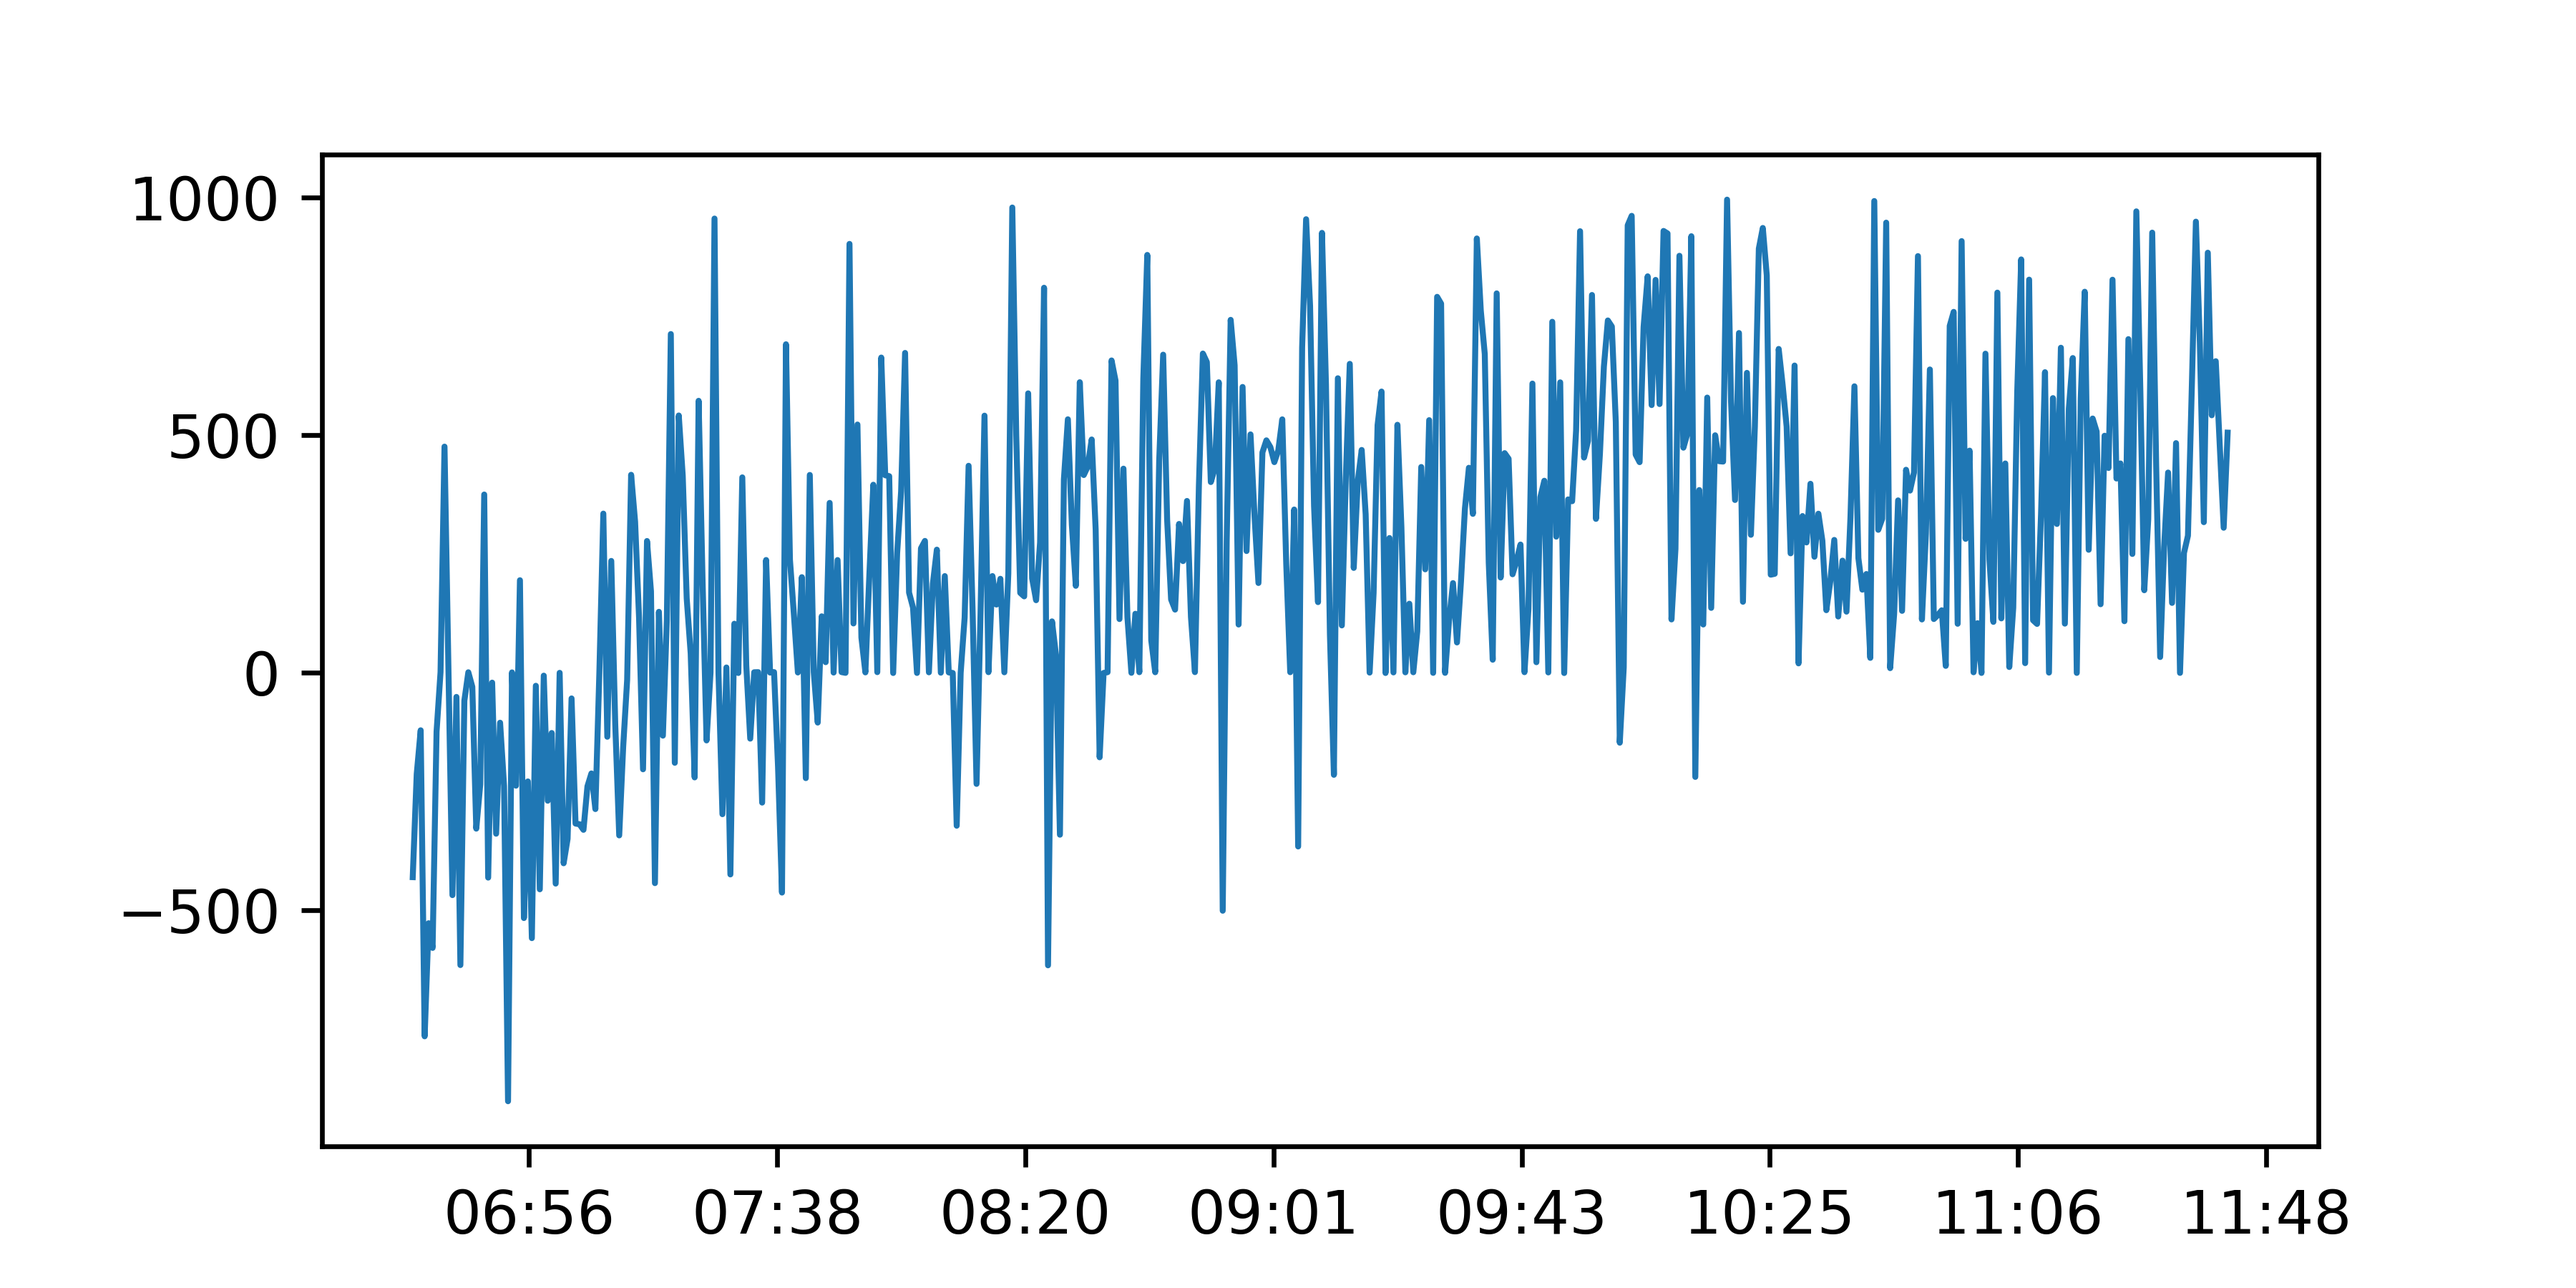
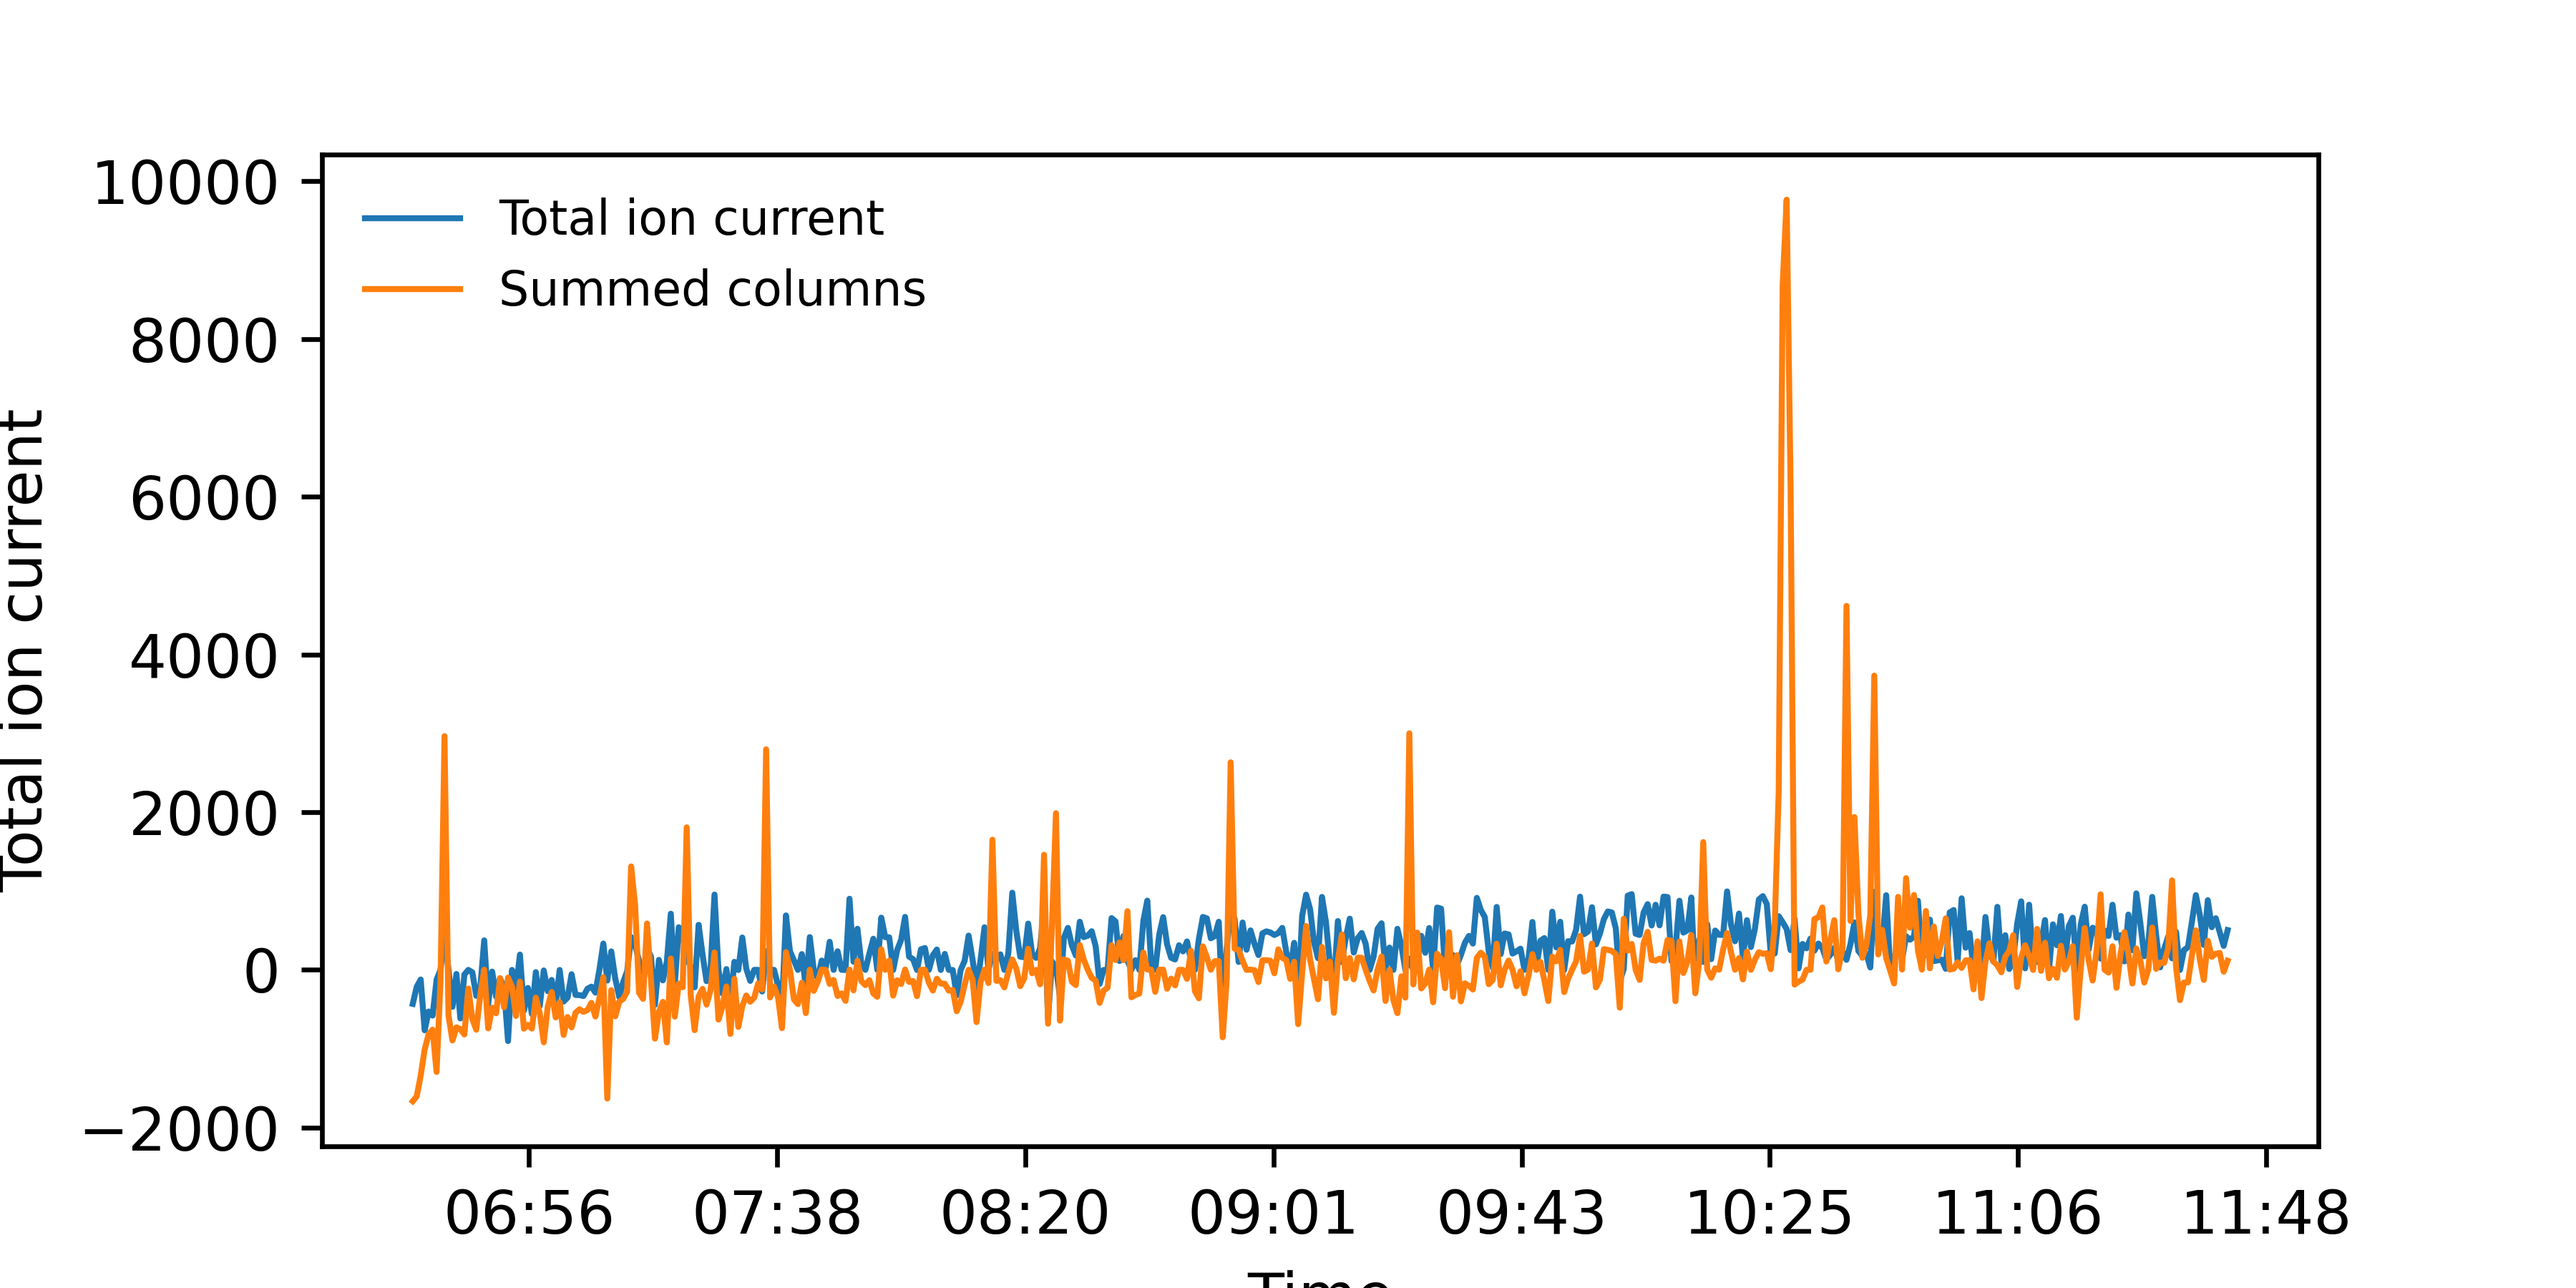
edit

diff --git a/field.py b/field.py
@@ -1,0 +1,37 @@
+#%%
+import matplotlib.pyplot as plt
+import pandas as pd
+import time
+from matplotlib.ticker import FuncFormatter
+import numpy as np
+from matplotlib.ticker import (MultipleLocator, AutoMinorLocator)
+import os
+#%%
+def read_data(path):
+    files = os.listdir(path)
+    data_dict = {}
+
+    for file in files:
+        name = file.split('.')[0]
+        with open(os.path.join(path, file)) as f:
+            df = pd.read_csv(f, sep = ';')
+            df = df.dropna()
+
+            df['Time'] = pd.to_timedelta(df['t_base'].str.split().str[1]).astype('timedelta64[s]')
+            df = df.set_index('Time')
+            df = df.drop('t_base', axis = 'columns')
+
+        data_dict[name] = df
+    
+    return data_dict
+#%%
+def plot_overview(ax, df):
+    summed = df[df.keys()[1:]].sum(axis='columns')
+    ax.plot(df.index, df['Total ion current'], lw = 1, label = 'Total ion current')
+    ax.plot(df.index, summed, lw = 1, label = 'Summed columns')
+
+    formatter = FuncFormatter(lambda s, x: time.strftime('%H:%M', time.gmtime(s)))
+    ax.xaxis.set_major_formatter(formatter)
+
+    ax.legend(frameon = False, fontsize = 8)
+    ax.set(ylabel = 'Total ion current', xlabel = 'Time')
